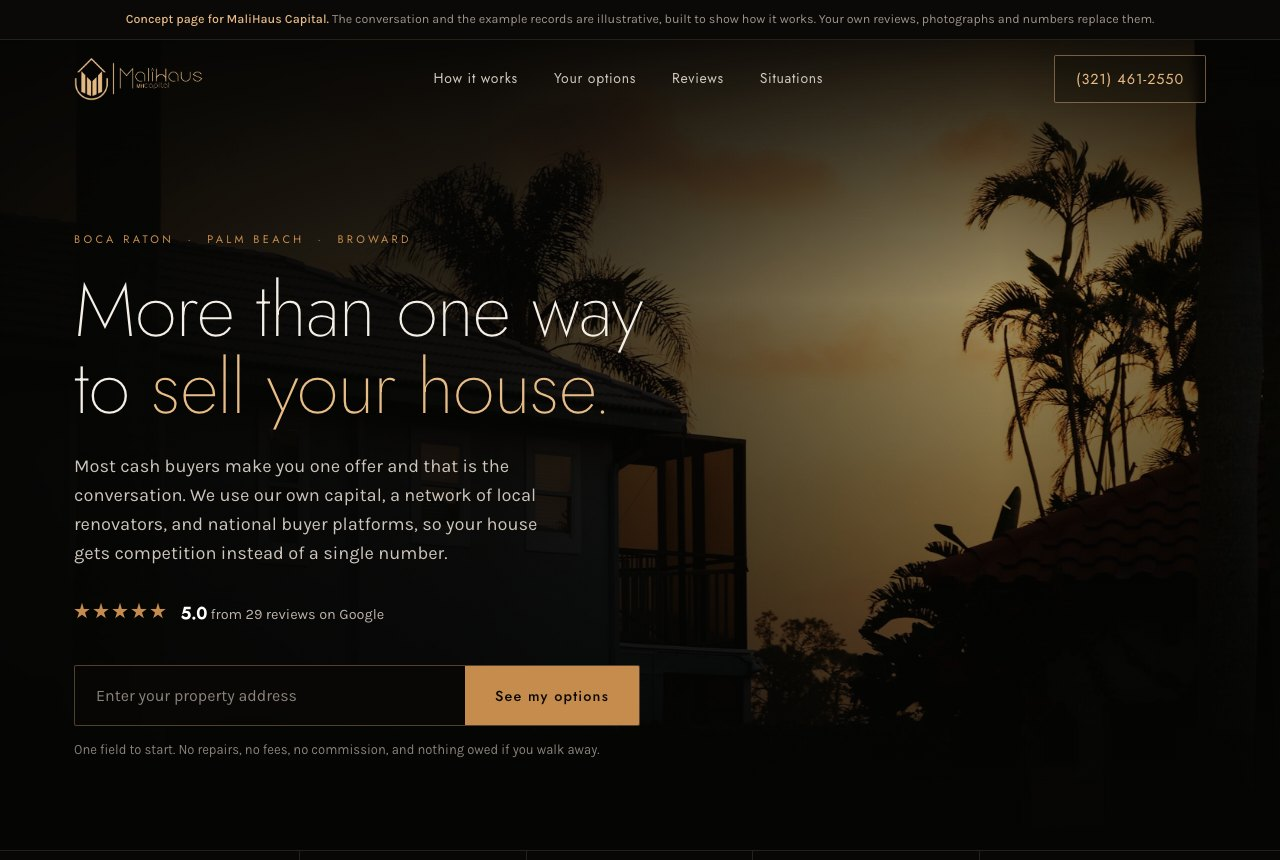
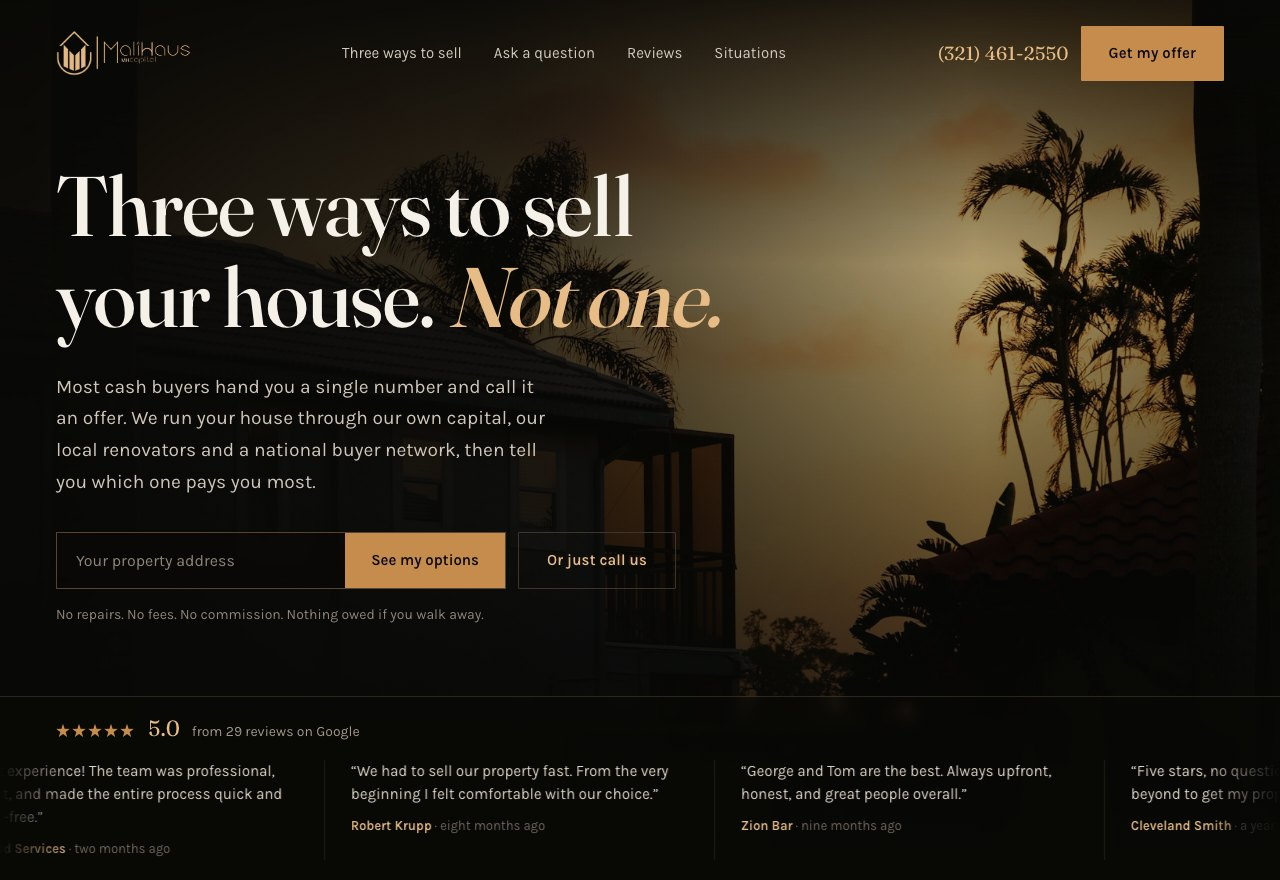
Link both the seller page and the engine page from the letter

diff --git a/index.html b/index.html
@@ -298,16 +298,23 @@ a:focus-visible{outline:2px solid var(--accent);outline-offset:3px}
 
   <h2>What it could look like instead</h2>
 
-  <p>Rather than describe it, I built it. This is a working page, not a picture of one, using your own logo and your own rating. The conversation on it runs, and you can switch it between three different sellers to see how each one is handled.</p>
+  <p>Rather than describe it, I built it. There are two links below. The first is the page a seller would land on. The second shows what runs behind it, because a better looking website on its own would just move the same problem somewhere prettier.</p>
 
   <figure class="wide">
     <a href="https://andrewpcherry.github.io/malihaus-concept/">
       <img src="img/ev-concept.jpg" alt="A proposed home page for MaliHaus Capital" loading="lazy">
     </a>
-    <figcaption><b><a href="https://andrewpcherry.github.io/malihaus-concept/">Open the working page</a>.</b> Your rating in the first screen, one field to start instead of eight, your three routes as the leading idea, and the conversation that runs when you are not there. The photography and the example sellers are placeholders for your own.</figcaption>
+    <figcaption><b><a href="https://andrewpcherry.github.io/malihaus-concept/">The page itself</a>.</b> Your own logo, your real Google reviews moving across the first screen, one field to start instead of eight, and your three routes as the leading idea rather than a paragraph in the middle. The photography is a placeholder for your own.</figcaption>
   </figure>
 
-  <p>Happy to walk through any of this on a call, and to go through the page with you properly.</p>
+  <figure class="wide">
+    <a href="https://andrewpcherry.github.io/malihaus-concept/how-it-works.html">
+      <img src="img/ev-engine.jpg" alt="The working parts behind the page" loading="lazy">
+    </a>
+    <figcaption><b><a href="https://andrewpcherry.github.io/malihaus-concept/how-it-works.html">What runs behind it</a>.</b> The missed call turning into a text, the conversation that handles a seller at nine at night, and the record it writes while that happens. It is all working on the page, so you can press the buttons rather than take my word for it.</figcaption>
+  </figure>
+
+  <p>Happy to walk through any of this on a call, and to go through both properly with you.</p>
 
   <div class="signoff">
     <hr>
